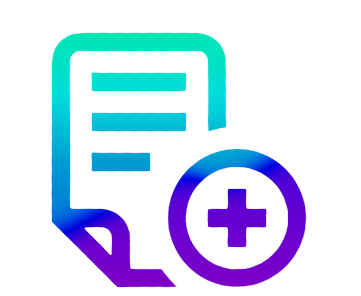
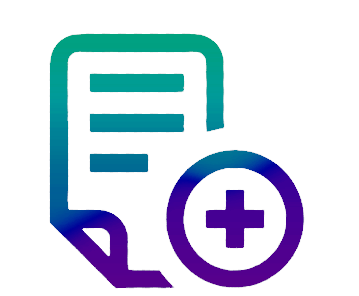
change colors

diff --git a/src/index.css b/src/index.css
@@ -15,9 +15,9 @@ body {
 :root {
 	--main-background-color: linear-gradient(
 		267deg,
-		rgb(43, 167, 101) 1%,
-		rgb(33, 151, 112) 25%,
-		rgb(60, 187, 132) 86%
+		rgb(28, 115, 69) 1%,
+		rgb(6, 119, 81) 25%,
+		rgb(39, 130, 91) 86%
 	);
 	--text-color1: rgb(244, 243, 238);
 	--text-color2: #2a9f6c;
@@ -25,8 +25,8 @@ body {
 	--text-color-hover1: rgb(135, 29, 216);
 	--main-btn-color: linear-gradient(
 		267deg,
-		rgb(118, 13, 199) 25%,
-		rgb(159, 22, 228) 86%
+		rgb(96, 15, 157) 25%,
+		rgb(102, 30, 137) 86%
 	);
 }
 h2 {

diff --git a/src/components/screens/ExerciseScreen.tsx b/src/components/screens/ExerciseScreen.tsx
@@ -53,7 +53,7 @@ const ExerciseScreen = () => {
 		if (setId === null) {
 			navigate(`/profile/moje-plany-treningowe`);
 		} else {
-			navigate(`/profile/moje-plany-treningowe/${setId}`);
+			navigate(`/profile/moje-plany-treningowe/${setId}-edit`);
 		}
 	};
 

diff --git a/src/css/TrainingScreen.css b/src/css/TrainingScreen.css
@@ -81,6 +81,8 @@
 	padding: 0.3rem;
 	border-radius: 5px;
 	background: var(--main-background-color);
+	color:white;
+	font-weight: normal;
 }
 .trainingScreen__exerciesList-box-btn {
 	text-align: end;
